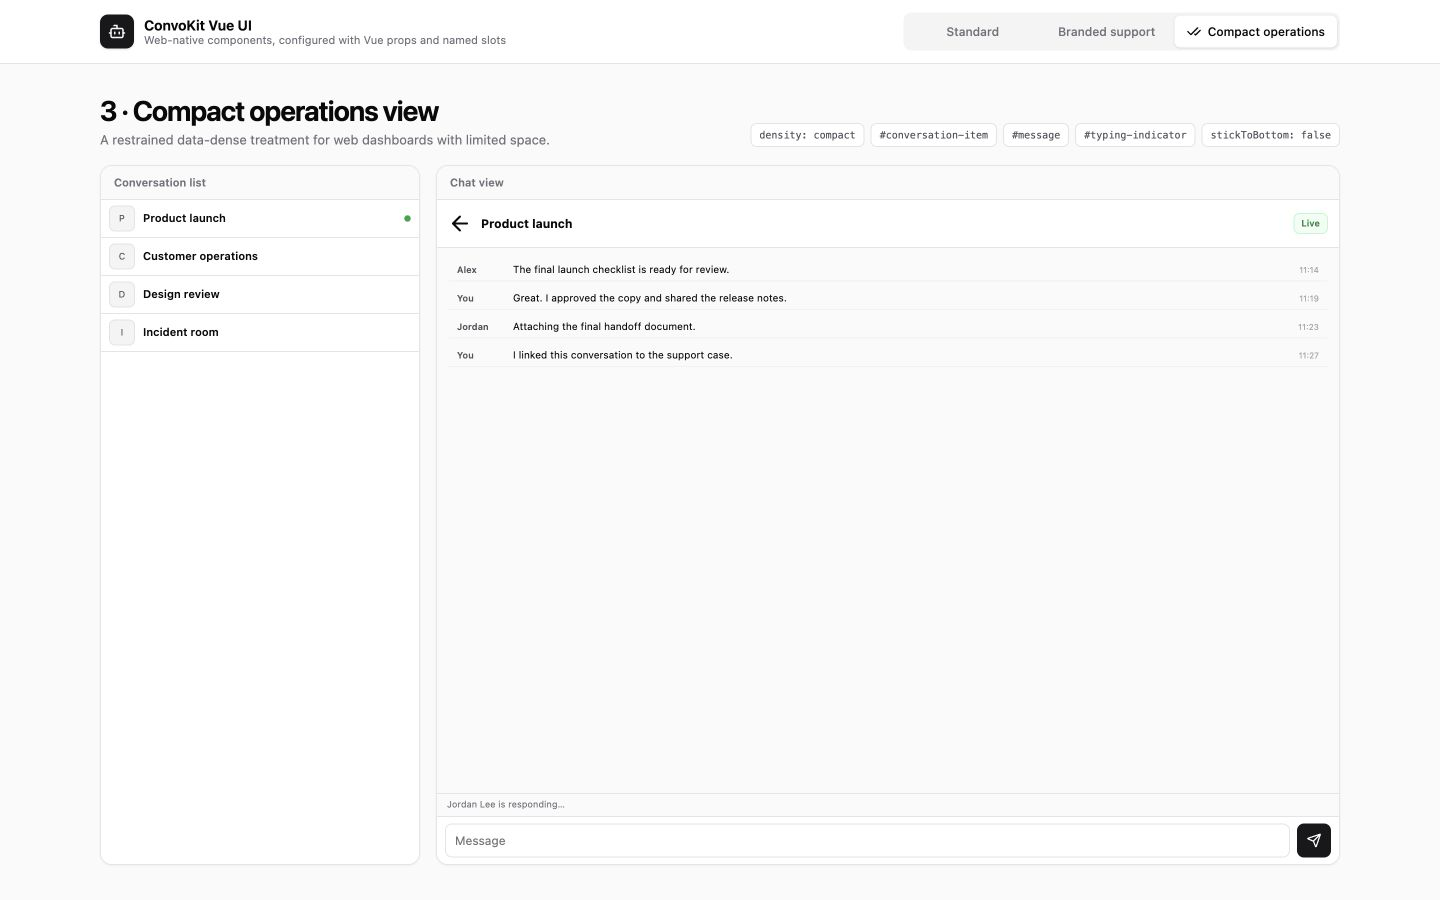
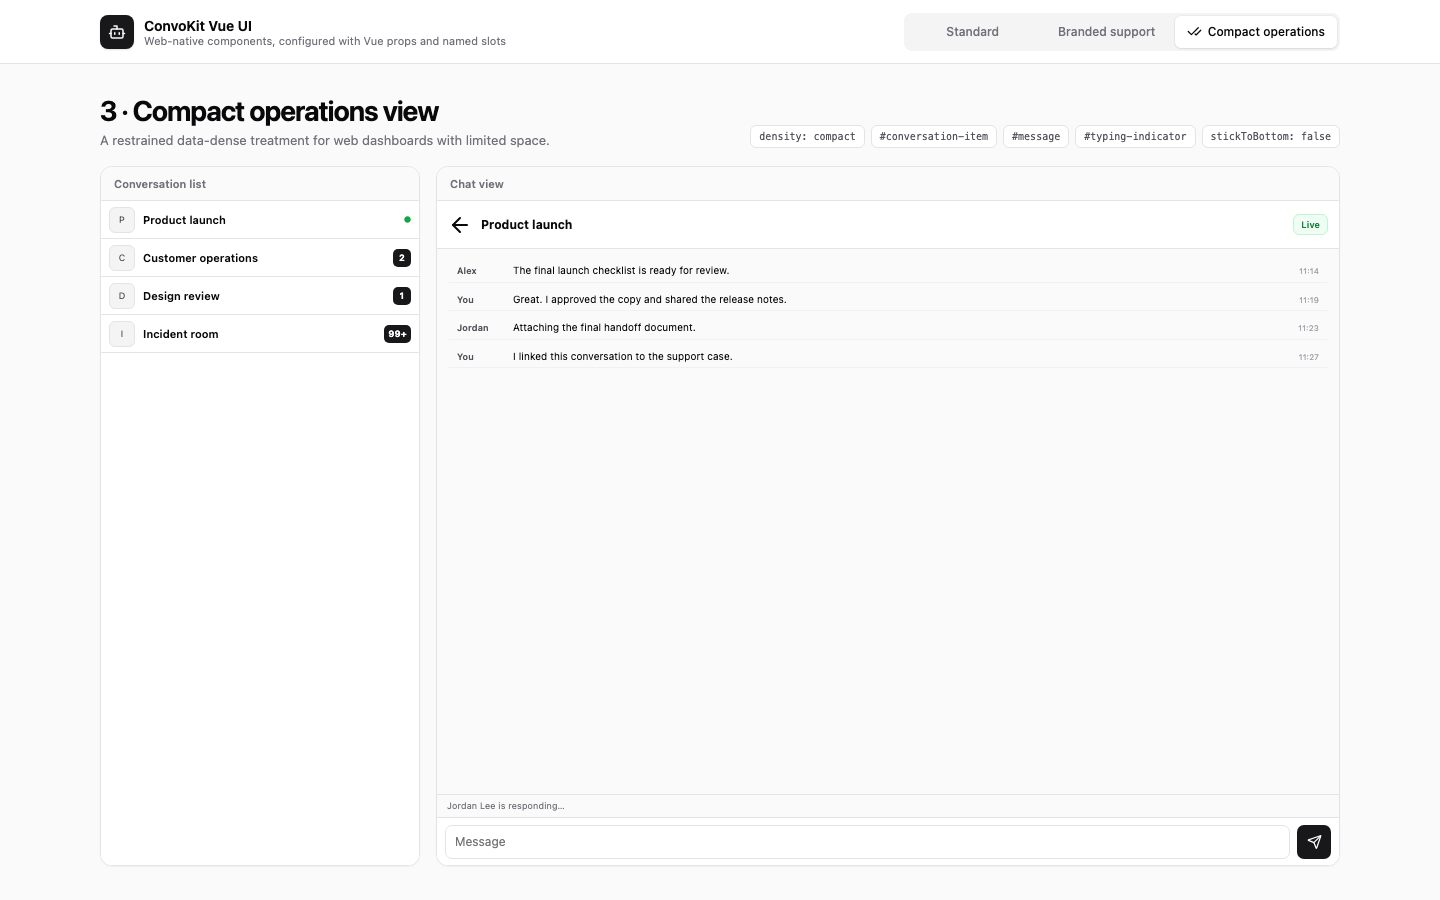
chore(demo): use released SDK and Vue UI 0.6.0
Adopt the 0.6.0 packages and pass `summaries`/`currentUserId` to every
showcase list so the inbox rows render previews, activity times and unread
badges. Regenerate the README screenshots from the 0.6.0 showcase
(1440x900, TZ=UTC) so they show the same rows the captions describe.

diff --git a/src/ShowcaseApp.vue b/src/ShowcaseApp.vue
@@ -1,14 +1,15 @@
 <script setup lang="ts">
-import type { MessageMedia } from '@convokitapp/sdk'
+import type { InboxSummary, MessageMedia } from '@convokitapp/sdk'
 import {
   ConversationListView,
   ConversationView,
   ConvoKitThemeProvider,
   isConvoKitPendingMessage,
+  type ConversationItemSlotProps,
 } from '@convokitapp/vue-ui'
 import { ArrowLeft, Bot, CheckCheck, Circle, Headphones, Paperclip, Send, Ticket, Users } from '@lucide/vue'
 import { computed, ref } from 'vue'
-import { conversations, messages, readAtByUserId } from './fixtures'
+import { conversations, currentUserId, messages, readAtByUserId, summaries } from './fixtures'
 
 type Variant = 'standard' | 'branded' | 'compact'
 const variants: Array<{ id: Variant; label: string }> = [
@@ -19,8 +20,8 @@ const variants: Array<{ id: Variant; label: string }> = [
 const details = {
   standard: {
     number: '1', title: 'Standard components',
-    description: 'Neutral, shadcn-inspired defaults for lists, messages, receipts, media and the composer.',
-    props: ['onRefresh', 'onAddAttachment', 'readAtByUserId', 'reverseMessages: true'],
+    description: 'Neutral, shadcn-inspired defaults for inbox rows, messages, receipts, media and the composer.',
+    props: ['summaries', 'currentUserId', 'onRefresh', 'onAddAttachment', 'readAtByUserId', 'reverseMessages: true'],
   },
   branded: {
     number: '2', title: 'Branded customer support',
@@ -65,6 +66,19 @@ function messageStatus(message: (typeof messages)[number]) {
 function ticketLabel(media: MessageMedia) {
   return media.type === 'contact' ? media.metadata.email : ''
 }
+
+/** Custom rows read the same `summary` the default rows render; the viewer's own messages read `You: …`. */
+function preview({ summary, currentUserId: viewer }: ConversationItemSlotProps) {
+  const message = summary?.latestMessage
+  if (!message) return 'No messages yet'
+  const body = message.text ?? (message.media[0]?.type === 'image' ? 'Photo' : message.media[0]?.name ?? 'Attachment')
+  return message.senderId === viewer ? `You: ${body}` : body
+}
+
+function unreadLabel(summary: InboxSummary | undefined) {
+  if (!summary || (summary.unreadCount <= 0 && !summary.unreadCountCapped)) return ''
+  return summary.unreadCountCapped || summary.unreadCount > 99 ? '99+' : String(summary.unreadCount)
+}
 </script>
 
 <template>
@@ -93,33 +107,39 @@ function ticketLabel(media: MessageMedia) {
           <ConversationListView
             v-if="variant === 'standard'"
             :conversations="conversations"
+            :summaries="summaries"
+            :current-user-id="currentUserId"
             :selected-conversation-id="selected.id"
             :on-conversation-select="() => undefined"
           />
           <ConversationListView
             v-else-if="variant === 'branded'"
             :conversations="conversations"
+            :summaries="summaries"
+            :current-user-id="currentUserId"
             :selected-conversation-id="selected.id"
             :on-conversation-select="() => undefined"
           >
             <template #conversation-item="slotProps">
               <button type="button" class="branded-row" :data-selected="slotProps.selected || undefined" @click="slotProps.select">
                 <span class="branded-row__avatar">{{ slotProps.conversation.displayTitle[0] }}</span>
-                <span><strong>{{ slotProps.conversation.displayTitle }}</strong><small>{{ slotProps.index === 0 ? 'Waiting for your reply' : 'Last reply today' }}</small></span>
-                <b v-if="slotProps.index === 0">2</b>
+                <span><strong>{{ slotProps.conversation.displayTitle }}</strong><small>{{ preview(slotProps) }}</small></span>
+                <b v-if="unreadLabel(slotProps.summary)">{{ unreadLabel(slotProps.summary) }}</b>
               </button>
             </template>
           </ConversationListView>
           <ConversationListView
             v-else
             :conversations="conversations"
+            :summaries="summaries"
+            :current-user-id="currentUserId"
             :selected-conversation-id="selected.id"
             :on-conversation-select="() => undefined"
             density="compact"
           >
             <template #conversation-item="slotProps">
               <button type="button" class="compact-row" @click="slotProps.select">
-                <span>{{ slotProps.conversation.displayTitle[0] }}</span><strong>{{ slotProps.conversation.displayTitle }}</strong><Circle v-if="slotProps.selected" fill="currentColor" :size="7" />
+                <span>{{ slotProps.conversation.displayTitle[0] }}</span><strong>{{ slotProps.conversation.displayTitle }}</strong><b v-if="unreadLabel(slotProps.summary)">{{ unreadLabel(slotProps.summary) }}</b><Circle v-if="slotProps.selected" fill="currentColor" :size="7" />
               </button>
             </template>
           </ConversationListView>

diff --git a/src/fixtures.ts b/src/fixtures.ts
@@ -1,4 +1,4 @@
-import type { Conversation, Message } from '@convokitapp/sdk'
+import type { Conversation, InboxSummary, Message } from '@convokitapp/sdk'
 
 const participants = [
   {
@@ -112,4 +112,67 @@ export const messages: Message[] = [
 export const readAtByUserId = new Map([
   ['alex', new Date('2026-08-26T11:30:00Z')],
   ['jordan', new Date('2026-08-26T11:28:00Z')],
+])
+
+/** The viewer of every showcase surface; the list reads its own messages as `You: …`. */
+export const currentUserId = 'maya'
+
+/** Per-room inbox rows as `listInbox` returns them (the newest surviving message, unread count and read state). */
+export const summaries: ReadonlyMap<string, InboxSummary> = new Map<string, InboxSummary>([
+  ['product-launch', {
+    latestMessage: messages[3]!,
+    unreadCount: 0,
+    unreadCountCapped: false,
+    readPosition: { messageId: 'message-4', createdAt: new Date('2026-08-26T11:27:00Z') },
+    lastReadAt: new Date('2026-08-26T11:30:00Z'),
+    activityAt: new Date('2026-08-26T11:27:00Z'),
+  }],
+  ['customer-operations', {
+    latestMessage: {
+      id: 'message-5',
+      conversationId: 'customer-operations',
+      senderId: 'alex',
+      text: 'The customer is waiting on the refund confirmation.',
+      media: [],
+      createdAt: new Date('2026-08-26T11:26:00Z'),
+      updatedAt: null,
+    },
+    unreadCount: 2,
+    unreadCountCapped: false,
+    readPosition: null,
+    lastReadAt: new Date('2026-08-26T10:40:00Z'),
+    activityAt: new Date('2026-08-26T11:26:00Z'),
+  }],
+  ['design-review', {
+    latestMessage: {
+      id: 'message-6',
+      conversationId: 'design-review',
+      senderId: 'jordan',
+      text: null,
+      media: [{ id: 'image-2', type: 'image', name: 'settings-panel.png', url: '/launch-board.svg', size: 92160 }],
+      createdAt: new Date('2026-08-26T11:25:00Z'),
+      updatedAt: null,
+    },
+    unreadCount: 1,
+    unreadCountCapped: false,
+    readPosition: null,
+    lastReadAt: new Date('2026-08-26T09:15:00Z'),
+    activityAt: new Date('2026-08-26T11:25:00Z'),
+  }],
+  ['incident-room', {
+    latestMessage: {
+      id: 'message-7',
+      conversationId: 'incident-room',
+      senderId: 'alex',
+      text: 'Paging the on-call engineer now.',
+      media: [],
+      createdAt: new Date('2026-08-26T11:24:00Z'),
+      updatedAt: null,
+    },
+    unreadCount: 120,
+    unreadCountCapped: false,
+    readPosition: null,
+    lastReadAt: null,
+    activityAt: new Date('2026-08-26T11:24:00Z'),
+  }],
 ])

diff --git a/src/ShowcaseApp.test.ts b/src/ShowcaseApp.test.ts
@@ -7,14 +7,28 @@ describe('Vue UI showcase', () => {
     const wrapper = mount(ShowcaseApp)
     expect(wrapper.text()).toContain('Standard components')
     expect(wrapper.text()).toContain('launch-handoff.pdf')
+    // The package's default rows render the preview, time and unread badge from `summaries`.
+    expect(wrapper.text()).toContain('You: I linked this conversation to the support case.')
+    expect(wrapper.text()).toContain('Alex Rivera: The customer is waiting on the refund confirmation.')
+    expect(wrapper.text()).toContain('Jordan Lee: Photo')
+    expect(wrapper.find('[aria-label="2 unread"]').exists()).toBe(true)
+    expect(wrapper.find('[aria-label="120 unread"]').text()).toBe('99+')
 
     await wrapper.findAll('.variant-tabs button')[1]!.trigger('click')
     expect(wrapper.text()).toContain('Branded customer support')
     expect(wrapper.text()).toContain('Priority support')
     expect(wrapper.text()).toContain('Ticket CK-4821')
+    expect(wrapper.findAll('.branded-row small').map((row) => row.text())).toEqual([
+      'You: I linked this conversation to the support case.',
+      'The customer is waiting on the refund confirmation.',
+      'Photo',
+      'Paging the on-call engineer now.',
+    ])
+    expect(wrapper.findAll('.branded-row b').map((badge) => badge.text())).toEqual(['2', '1', '99+'])
 
     await wrapper.findAll('.variant-tabs button')[2]!.trigger('click')
     expect(wrapper.text()).toContain('Compact operations view')
     expect(wrapper.text()).toContain('Jordan Lee is responding')
+    expect(wrapper.findAll('.compact-row b').map((badge) => badge.text())).toEqual(['2', '1', '99+'])
   })
 })

diff --git a/src/styles.css b/src/styles.css
@@ -67,10 +67,11 @@ button { color: inherit; }
 .branded-composer button:first-child { width: 36px; color: #6f6878; }
 .branded-composer button:last-child { padding: 7px 15px; background: #6d45a8; color: #fff; font-size: 12px; font-weight: 600; }
 
-.compact-row { display: grid; grid-template-columns: 26px minmax(0,1fr) auto; align-items: center; gap: 8px; width: 100%; min-height: 38px; padding: 5px 8px; border: 0; border-bottom: 1px solid #e4e4e7; background: #fff; text-align: left; cursor: pointer; }
+.compact-row { display: grid; grid-template-columns: 26px minmax(0,1fr); grid-auto-flow: column; grid-auto-columns: max-content; align-items: center; gap: 8px; width: 100%; min-height: 38px; padding: 5px 8px; border: 0; border-bottom: 1px solid #e4e4e7; background: #fff; text-align: left; cursor: pointer; }
 .compact-row:hover { background: #fafafa; }
 .compact-row > span { display: grid; width: 26px; height: 26px; place-items: center; border: 1px solid #e4e4e7; border-radius: 6px; background: #f4f4f5; color: #52525b; font-size: 9px; }
 .compact-row strong { font-size: 11px; font-weight: 600; }
+.compact-row b { display: grid; min-width: 18px; height: 18px; padding-inline: 4px; place-items: center; border-radius: 5px; background: #18181b; color: #fff; font-size: 9px; }
 .compact-row > svg { color: #16a34a; }
 .compact-header { display: flex; align-items: center; gap: 9px; min-height: 48px; padding: 7px 11px; border-bottom: 1px solid #e4e4e7; background: #fff; }
 .compact-header strong { flex: 1; font-size: 12px; }

diff --git a/src/LiveExample.vue b/src/LiveExample.vue
@@ -195,7 +195,7 @@ function setListController(value: ConversationListController) {
               @conversation-select="selectRoom($event.id)"
             />
             <div class="demo-sidebar-footer">
-              <span class="status-dot" />{{ state.status }}<span>UI SDK 0.5.0</span>
+              <span class="status-dot" />{{ state.status }}<span>UI SDK 0.6.0</span>
             </div>
           </aside>
           <section class="demo-chat-panel" aria-label="Chat workspace">

diff --git a/README.md b/README.md
@@ -9,10 +9,13 @@ Vue UI package and the core [`@convokitapp/sdk`](https://www.npmjs.com/package/@
 
 ## Live open-chatroom demo
 
-This example consumes the published 0.5.0 core and UI packages. The UI library
-automatically refreshes inboxes on room/membership changes and replaces pending
+This example consumes the published 0.6.0 core and UI packages. The SDK-backed
+conversation list pages the inbox in activity order and renders each room's
+latest-message preview, activity time and unread badge by itself, refreshing on
+room/membership changes and on new activity. The chat view replaces pending
 messages when their matching live/history confirmation arrives. No demo-side
-polling, text matching or duplicate-bubble workaround is required.
+polling, preview or unread bookkeeping, text matching or duplicate-bubble
+workaround is required.
 
 [Open the Vue demo](https://convokit-vue-demo.vercel.app). It uses the same backend, demo personas and
 room IDs as the [Flutter demo](https://convokit-open-chatroom.vercel.app).
@@ -48,22 +51,24 @@ Use the selector to compare configurations, or open `?variant=standard`,
 
 ![Standard ConvoKit Vue conversation list and chat components](doc/screenshots/standard-components.png)
 
-Web-native, shadcn-inspired package defaults plus refresh, attachment,
-read-position, image/file rendering, and bottom-anchored messages.
+Web-native, shadcn-inspired package defaults plus inbox previews and unread
+badges from `summaries`/`currentUserId`, refresh, attachment, read-position,
+image/file rendering, and bottom-anchored messages.
 
 ### Branded customer support
 
 ![Branded ConvoKit Vue customer support interface](doc/screenshots/branded-support.png)
 
 A restrained product-branded support workspace built with the `conversation-item`, `header`,
-`media`, `read-receipt`, and `composer` named slots.
+`media`, `read-receipt`, and `composer` named slots. The custom rows read the
+`summary` and `currentUserId` slot props for their preview line and unread count.
 
 ### Compact operations
 
 ![Compact ConvoKit Vue operations interface](doc/screenshots/compact-operations.png)
 
-A dense dashboard built with `density="compact"`, custom rows, message lines,
-typing state, composer, and `stick-to-bottom="false"`.
+A dense dashboard built with `density="compact"`, custom rows with unread
+badges, message lines, typing state, composer, and `stick-to-bottom="false"`.
 
 The complete configuration is in [`src/ShowcaseApp.vue`](src/ShowcaseApp.vue).
 
